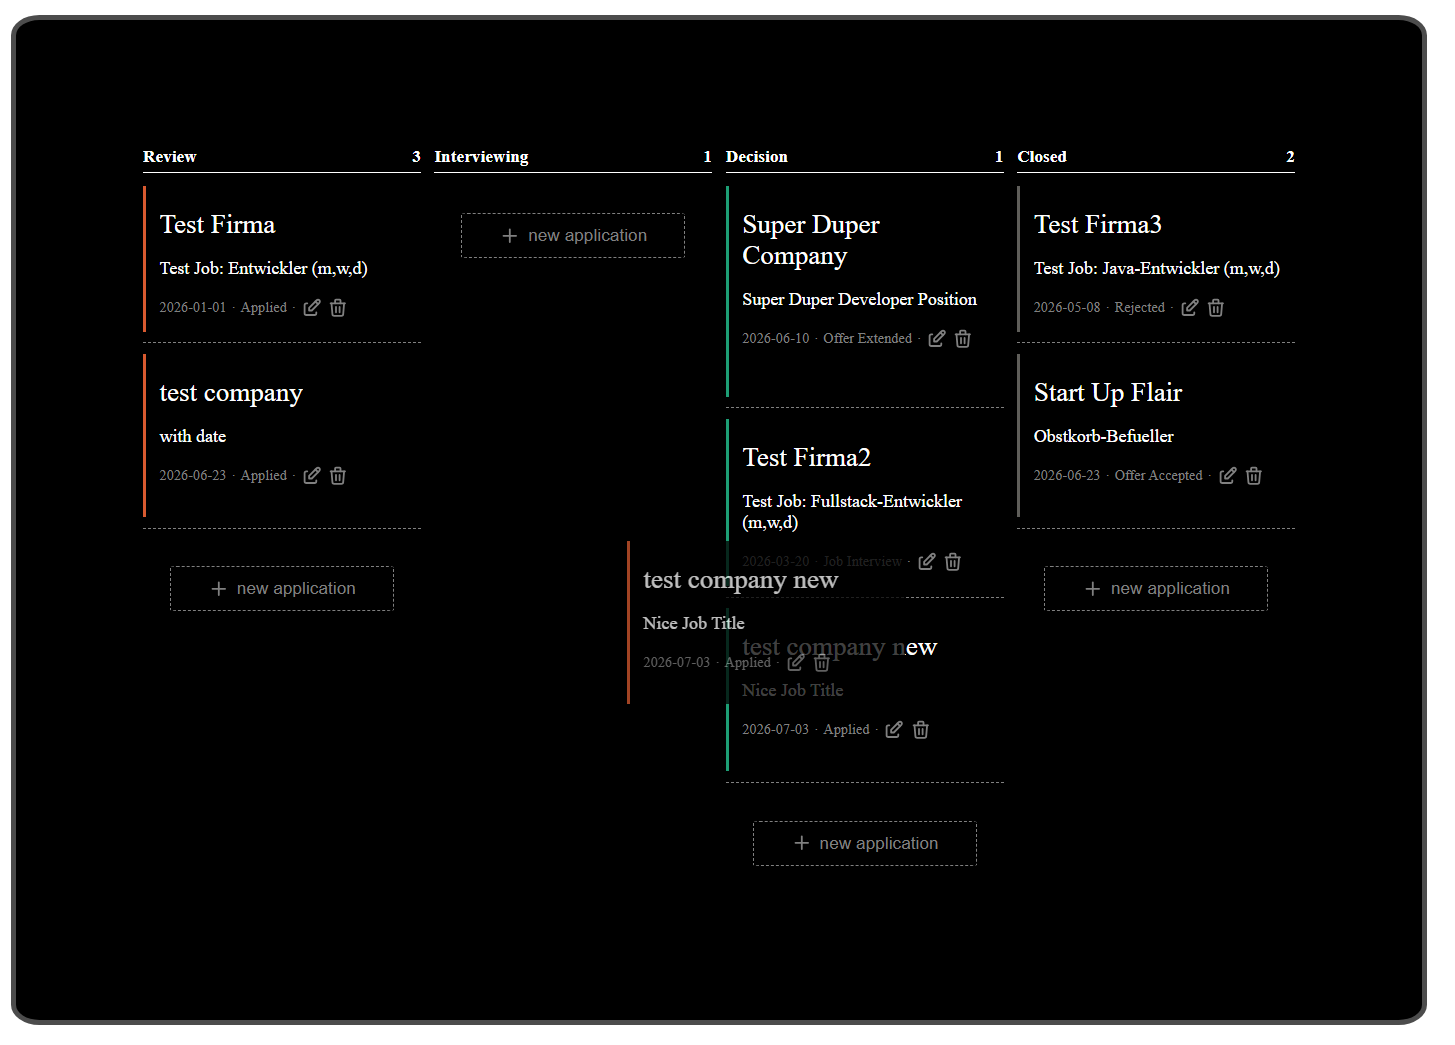
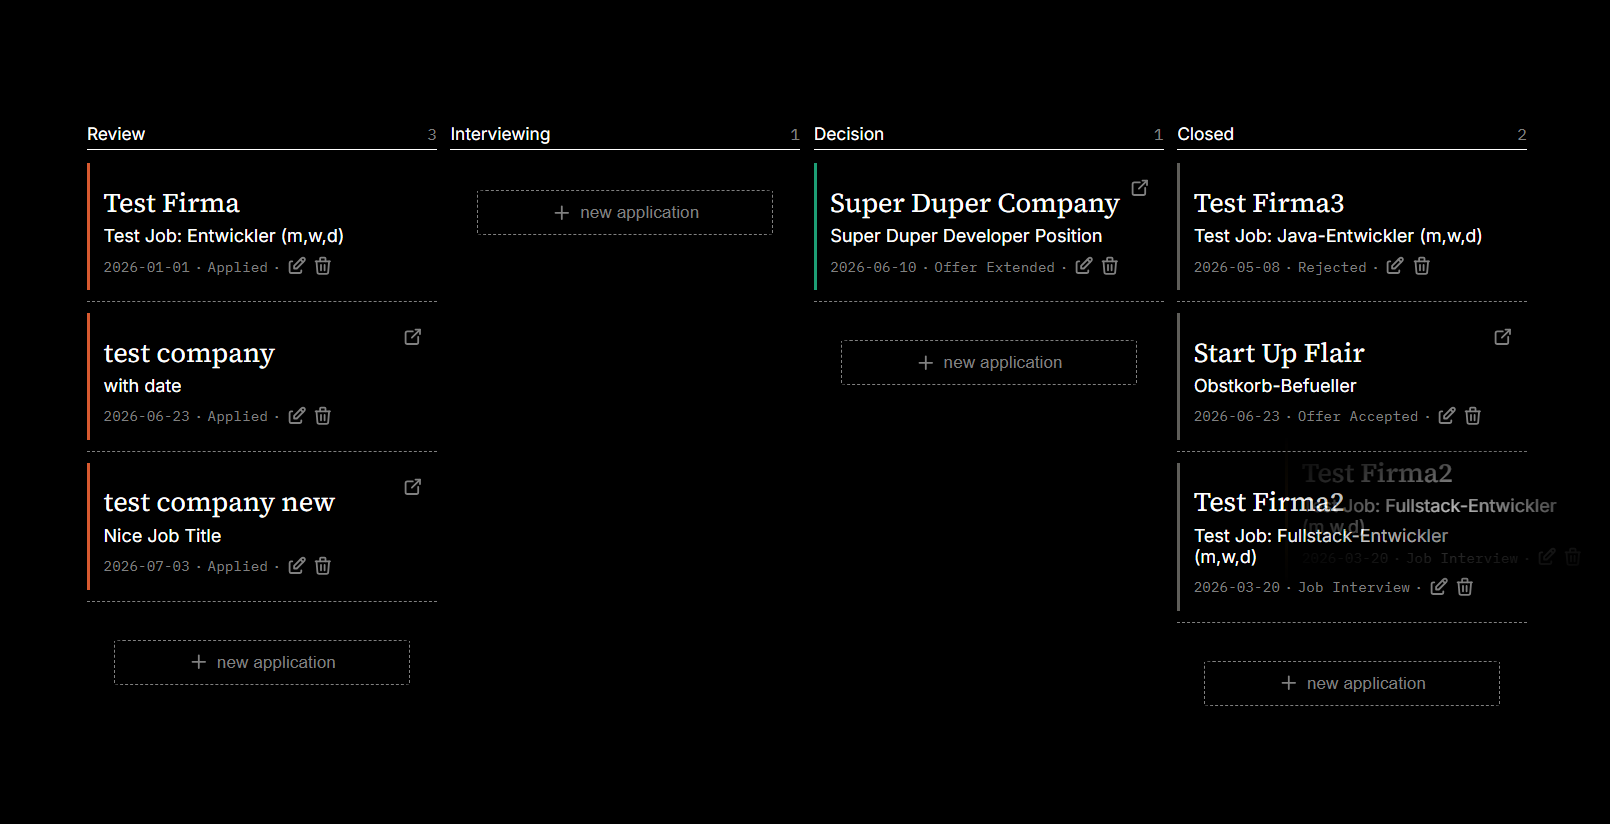
introduced three custom fonts with fallbacks, svg with symbol tags is not loaded into the dom once on start of the app (see init in app.js) and is not rendered into the document by using diplay: none-> fixes the issue where the browser fetches the svgs too late and does not trigger an visual rerende

diff --git a/Frontend/css/style.css b/Frontend/css/style.css
@@ -1,3 +1,33 @@
+@font-face {
+  font-display: swap; /* Check https://developer.mozilla.org/en-US/docs/Web/CSS/@font-face/font-display for other options. */
+  font-family: "Inter";
+  font-style: normal;
+  font-weight: 400;
+  src: url("../assets/fonts/inter-v20-latin-regular.woff2") format("woff2"); /* Chrome 36+, Opera 23+, Firefox 39+, Safari 12+, iOS 10+ */
+}
+@font-face {
+  font-display: swap; /* Check https://developer.mozilla.org/en-US/docs/Web/CSS/@font-face/font-display for other options. */
+  font-family: "Source Serif 4";
+  font-style: normal;
+  font-weight: 400;
+  src: url("../assets/fonts/source-serif-4-v14-latin-regular.woff2")
+    format("woff2"); /* Chrome 36+, Opera 23+, Firefox 39+, Safari 12+, iOS 10+ */
+}
+@font-face {
+  font-display: swap; /* Check https://developer.mozilla.org/en-US/docs/Web/CSS/@font-face/font-display for other options. */
+  font-family: "IBM Plex Mono";
+  font-style: normal;
+  font-weight: 400;
+  src: url("../assets/fonts/ibm-plex-mono-v20-latin-regular.woff2")
+    format("woff2"); /* Chrome 36+, Opera 23+, Firefox 39+, Safari 12+, iOS 10+ */
+}
+:root {
+  --kanban-card-padding: 15px;
+  --kanban-columns-gap: 15px;
+  --font-sans: "Inter", system-ui, sans-serif;
+  --font-voice: "Source Serif 4", Georgia, serif;
+  --font-mono: "IBM Plex Mono", ui-monospace, monospace;
+}
 .kanban-column-flex-container[data-phase-id="1"] {
   --accent: #d85a30;
 }
@@ -9,11 +39,6 @@
 }
 .kanban-column-flex-container[data-phase-id="4"] {
   --accent: #5f5e5a;
-}
-
-:root {
-  --kanban-card-padding: 15px;
-  --kanban-columns-gap: 15px;
 }
 
 .app-body {
@@ -41,7 +66,7 @@
   overflow: hidden;
   padding: 5%;
   margin: auto;
-  max-width: 80em;
+  max-width: 100em;
 }
 
 .icon-small {
@@ -53,21 +78,30 @@
 .kanban-column-flex-container {
   display: flex;
   flex-direction: column;
-  /* background-color: rgb(47, 47, 47); */
   min-width: 250px;
-  max-width: 500px;
+  max-width: 700px;
   flex: 1 1 250px;
 }
 
 .kanban-column-header {
   display: flex;
   justify-content: space-between;
-  color: white;
-  font-size: larger;
-  font-weight: bold;
   border-bottom: 1.5px solid white;
   padding-bottom: 6px;
   margin-bottom: 14px;
+}
+
+.kanban-column-header-phase-name {
+  font-family: var(--font-sans);
+  color: white;
+  font-size: larger;
+  font-weight: 500;
+}
+
+.kanban-column-header-application-count {
+  font-family: var(--font-mono);
+  color: gray;
+  font-size: large;
 }
 
 .kanban-card {
@@ -77,6 +111,7 @@
   justify-content: space-between;
 }
 
+/* apply styling if two follow each other */
 .kanban-card + .kanban-card {
   border-top: 0.5px dashed gray;
   margin-top: 12px;
@@ -89,33 +124,50 @@
   cursor: move;
 }
 
-.application-card-company-name {
-  color: white;
-  font-size: 30px;
-  margin-top: 10px;
-  margin-bottom: 10px;
-}
-
-.application-card-job-title {
-  color: white;
-  font-size: 20px;
-}
-
-.application-card-body {
-  display: flex;
-  justify-content: start;
-  align-items: center;
-  gap: 5px;
-  color: gray;
-}
-
-.application-card-body button {
+.application-card button {
   background: transparent;
   border: none;
   padding: 0%;
   width: 24px;
   height: 24px;
   cursor: pointer;
+}
+
+.application-card-header {
+  display: flex;
+  justify-content: space-between;
+}
+
+.application-card-company-name {
+  font-family: var(--font-voice);
+  color: white;
+  font-size: 30px;
+  margin-top: 8px;
+  margin-bottom: 5px;
+}
+
+.application-card-job-title {
+  font-family: var(--font-sans);
+  color: white;
+  font-size: 20px;
+  margin-top: 0;
+  margin-bottom: 10px;
+}
+
+.application-card-body {
+  font-family: var(--font-mono);
+  display: flex;
+  justify-content: start;
+  align-items: center;
+  gap: 5px;
+  color: gray;
+}
+.application-card-url a {
+  font-family: var(--font-mono);
+  color: gray;
+}
+.application-card-url a:hover {
+  color: rgba(128, 128, 128, 0.557);
 }
 
 .dialog-background {
@@ -169,8 +221,12 @@
 .create-application-form {
   display: flex;
   flex-direction: column;
+  background-color: #3d3d3d88;
+  font-family: var(--font-mono);
+  color: white;
   padding: var(--kanban-card-padding);
   gap: 10px;
+  border-radius: 4%;
 }
 
 .application-create-form-field label {

diff --git a/Frontend/js/helper.js b/Frontend/js/helper.js
@@ -26,6 +26,15 @@ export function buildApplicationObject({
   return { company_name, job_title, url, status_id, date_appointment };
 }
 
+export async function loadIconSprite(url) {
+  const res = await fetch(url);
+  const svgText = await res.text();
+  const container = document.createElement("div");
+  container.style.display = "none";
+  container.innerHTML = svgText;
+  document.body.prepend(container);
+}
+
 export function loadIcon(iconName, className = "") {
   const svg = document.createElementNS("http://www.w3.org/2000/svg", "svg");
   if (className) svg.setAttribute("class", className);
@@ -39,7 +48,7 @@ export function loadIconString(iconName, className = "") {
   // Gibt puren HTML-Text zurück
   return `
     <svg class="${className}" xmlns="http://www.w3.org/2000/svg">
-      <use href="assets/icons/icons.svg#${iconName}"></use>
+      <use href="#${iconName}"></use>
     </svg>
   `.trim();
 }

diff --git a/Frontend/js/ui/applicationCard.js b/Frontend/js/ui/applicationCard.js
@@ -11,8 +11,9 @@ export function fillApplicationCardHTML(application) {
                     <p class="application-card-company-name">
                         ${application.company_name}
                     </p>
-                    <p class="application-card-job-title">${application.job_title}</p>
+                    ${application.url ? `<a class="application-card-button-link" href="${application.url}">${loadIconString("icon-link", "icon-small")}</a>` : `<div></div>`}
                 </div>
+                <p class="application-card-job-title">${application.job_title}</p>
                 <div class="application-card-body">
                     <span class="application-card-date">
                         ${date}
@@ -25,7 +26,6 @@ export function fillApplicationCardHTML(application) {
                     <button class="application-card-button-change">${loadIconString("icon-edit", "icon-small")}</button>
                     <button class="application-card-button-delete">${loadIconString("icon-trash", "icon-small")}</button>                    
                 </div>
-                <span class="application-card-url">${application.url ?? ""}</span>
             </div>
         </div>
         `;

diff --git a/Frontend/js/ui/applicationsKanaban.js b/Frontend/js/ui/applicationsKanaban.js
@@ -9,8 +9,8 @@ function createHTMLPhaseColumn(phase) {
 
   let phaseHeader = `<div class="kanban-column-header">`;
 
-  let phaseName = `<span>${phase["name"]}</span>`;
-  let numberOfApplications = `<div>${phase.applications.length}</div>`;
+  let phaseName = `<span class="kanban-column-header-phase-name">${phase["name"]}</span>`;
+  let numberOfApplications = `<div class="kanban-column-header-application-count">${phase.applications.length}</div>`;
 
   phaseColumnHtml += phaseHeader + phaseName + numberOfApplications + "</div>";
 

diff --git a/Frontend/js/app.js b/Frontend/js/app.js
@@ -9,6 +9,7 @@ import {
 import { renderApplicationKanban } from "./ui/applicationsKanaban.js";
 import { createApplicationForm } from "./ui/createApplicationForm.js";
 import { responseNotification } from "./ui/responseNotification.js";
+import { loadIconSprite } from "./helper.js";
 
 let _statuses = [];
 let _phases = [];
@@ -45,6 +46,7 @@ async function refreshKanban(phases, statuses) {
 }
 
 async function init() {
+  await loadIconSprite("assets/icons/icons.svg");
   _phases = await getApplicationPhases();
   _statuses = await getApplicationStatuses();
 